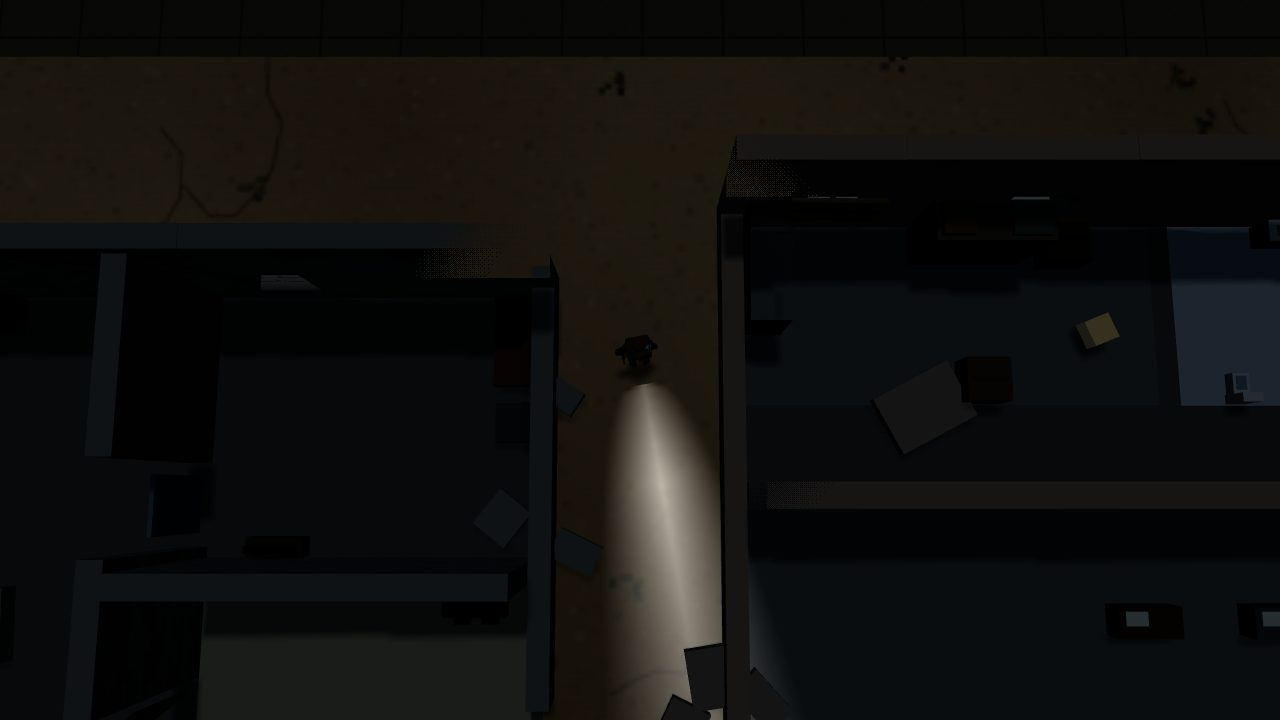
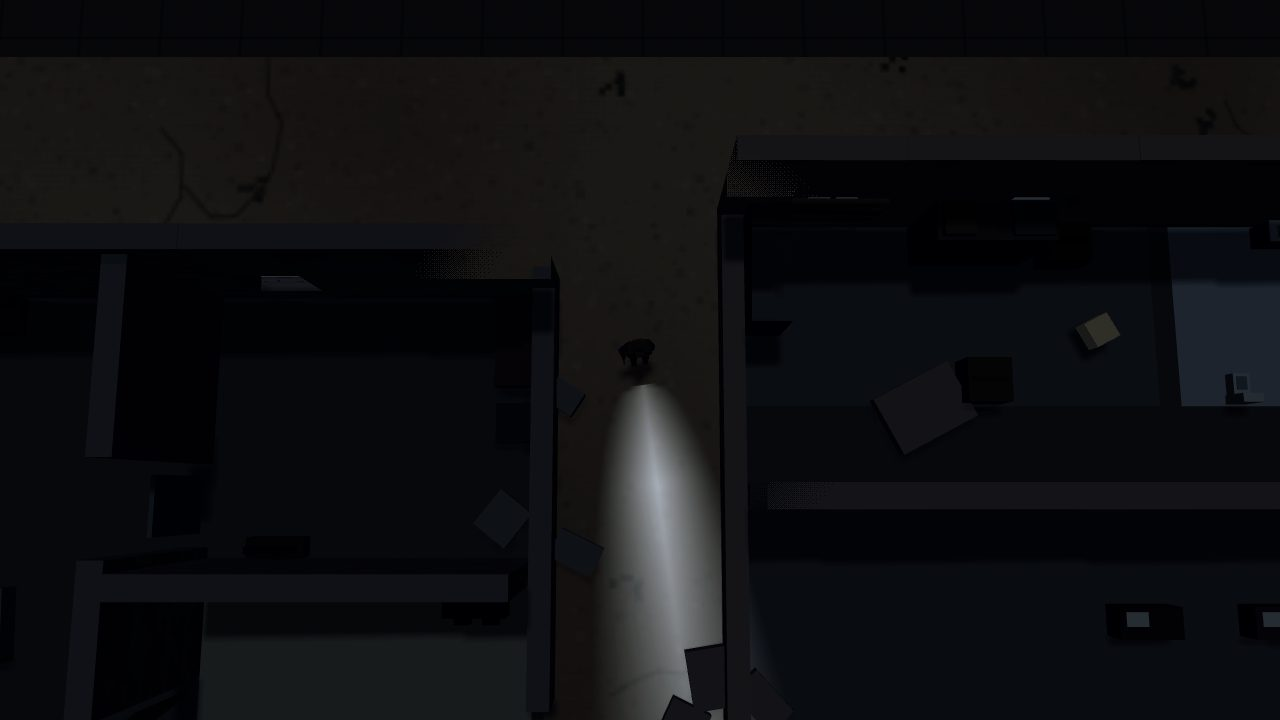
merge origin/main (faceted bodies, look-feel); the colour grade steps aside for the goggles' and the heat scope's own picture; renders on the merged build

Changed region(s): [[0.5, 0.6111, 0.5625, 0.9778]]

diff --git a/web/src/agent/kit-api.js b/web/src/agent/kit-api.js
@@ -96,7 +96,7 @@ export async function kitChecks(api, check, C) {
     const S = stretch();
     if (!S) { await check('kit: open ground to stage on', async () => 'no clear 80 m stretch'); return; }
 
-    await check('kit: night goggles drain their cell by the second (a fresh cell thumbed in from the pack when it goes flat), and a flare 6 m off whites them out; they come back once it is gone', async () => {
+    await check('kit: night goggles drain their cell by the second (a fresh cell thumbed in from the pack when it goes flat), the world grade steps aside for their own picture, and a flare 6 m off whites them out; they come back once it is gone', async () => {
       clean(); await home(S.x, S.z); await C('setTime', { hour: 1 });
       const L0 = lightCount();
       K.on.eyes = null; g.inventory.stow('nvg', 1); g.inventory.stow('battery_cell', 1); K.charge.nvg = 6;
@@ -106,6 +106,7 @@ export async function kitChecks(api, check, C) {
       await C('step', { seconds: 4 }); // past the first cell: the spare goes in
       const swapped = K.carried('battery_cell') === 0 && K.charge.nvg > KIT.nvg.power.life - 3;
       g.render(0); const on = K.mul.visible && g.renderer.toneMappingExposure > K.baseExposure * 1.5;
+      const gradeOff = !g.look || g.look.strength() === 0; // the world's colour grade steps aside for the tubes' own picture (systems/lookfeel.js)
       const f = g.gadgets.place('signal_flare', S.x + S.fx * 6, S.z + S.fz * 6, 0, P(), { state: 'armed', armAt: 0 });
       let blind = 0; for (let k = 0; k < 6; k++) { await C('step', { seconds: 0.25 }); blind = Math.max(blind, K.blind); }
       g.gadgets.remove(f);
@@ -114,8 +115,8 @@ export async function kitChecks(api, check, C) {
       K.charge.nvg = 0.5; await C('step', { seconds: 1.5 }); g.render(0); // flat, no cells left: the picture goes
       const dead = !K.mul.visible;
       K.on.eyes = null; g.render(0);
-      const lights = lightCount() === L0;
-      return drained && swapped && on && blind >= 0.6 && back && dead && lights ? true : `drained=${drained} swapped=${swapped} (cells ${K.carried('battery_cell')}, charge ${r1(K.charge.nvg)}) on=${on} blind=${r1(blind)} back=${back} (${r1(K.blind)}) dead=${dead} lights=${lights}`;
+      const lights = lightCount() === L0, gradeBack = !g.look || !(g.look.settings.grade > 0) || g.look.strength() > 0;
+      return drained && swapped && on && gradeOff && gradeBack && blind >= 0.6 && back && dead && lights ? true : `drained=${drained} swapped=${swapped} (cells ${K.carried('battery_cell')}, charge ${r1(K.charge.nvg)}) on=${on} grade off=${gradeOff} back=${gradeBack} blind=${r1(blind)} back=${back} (${r1(K.blind)}) dead=${dead} lights=${lights}`;
     });
 
     await check('kit: a lit flashlight at night makes a raider 46 m off spot you (unlit he does not); with no torch carried the beam does not come on at all', async () => {

diff --git a/web/src/systems/kit.js b/web/src/systems/kit.js
@@ -235,6 +235,10 @@ export class Kit {
     return 1;
   }
 
+  // The world's colour grade (systems/lookfeel.js) steps aside while the goggles or the heat scope draw their own picture:
+  // a tube's green or a heat camera's amber is the device's, not the region's. (Lens dirt still shows.)
+  gradeMul() { return this.mul?.visible ? 0 : 1; }
+
   // ---- heat ------------------------------------------------------------------------------------------------------------
   airC() { const n = this.g.sky?.night ?? 0; return HEAT.air.day + (HEAT.air.night - HEAT.air.day) * n; }
   heatOf(c) {

diff --git a/web/src/systems/lookfeel.js b/web/src/systems/lookfeel.js
@@ -314,7 +314,7 @@ void main() {
       this.bakeLut(B.grade);
     }
   }
-  strength() { const below = this.g.sky.below ?? 0; return GRADE.strength * this.settings.grade * (1 - 0.6 * below); }
+  strength() { const below = this.g.sky.below ?? 0; return GRADE.strength * this.settings.grade * (1 - 0.6 * below) * (this.g.kit?.gradeMul() ?? 1); } // goggles and the heat scope make their own picture (systems/kit.js)
 
   // The frame (main.js render; the screenshot command). Without the grade and the dirt it is the plain render.
   render(cam = this.g.camera) {

diff --git a/docs/design/WEB_GADGETS2.md b/docs/design/WEB_GADGETS2.md
@@ -156,6 +156,7 @@ Variables: `d` (m) distance; `r` a row's radius; `night` = `sky.night` 0..1; `t`
 | `data/hudlayout.js` | row `kit` (`.kit-chip`, top right under the pulls chip) |
 | `data/workshop.js` | UTILITY `hubspikes`, `spotlight`, `winch`; `validateWorkshop` checks `needs`, `slash`, `beam` |
 | `data/dogs.js` | DOG_GEAR + `validateDogGear` (appended) |
+| `systems/lookfeel.js` | `strength()`: `× g.kit?.gradeMul()`: the world's colour grade steps aside while the goggles or the heat scope draw their own picture (lens dirt still shows) |
 | `agent/api.js` | import and spread `kitCommands`; `g.kit.staged = true` for the battery (restored before the runtime-errors check); `kitChecks` after `gadgetsChecks` |
 
 **Others may use:** `g.kit.seenMul()` (any sight model), `g.kit.heatOf(c)` (any heat-seeking thing), `g.kit.keyUp(fact, x, z, from)` (any new transmitter: a faction's patrol radio when factionsim speaks), `g.kit.airAt(c)` (any breathing NPC), `AIR_ZONES.under.kinds` (the UNDERSTREET storm drains, kind `drains`, are listed). **This lane uses** SITE STORIES' `movers` (`state`, `car`, `kind`, `to`, `x`, `z`) and `place(id)` for the scanner's party chatter.
